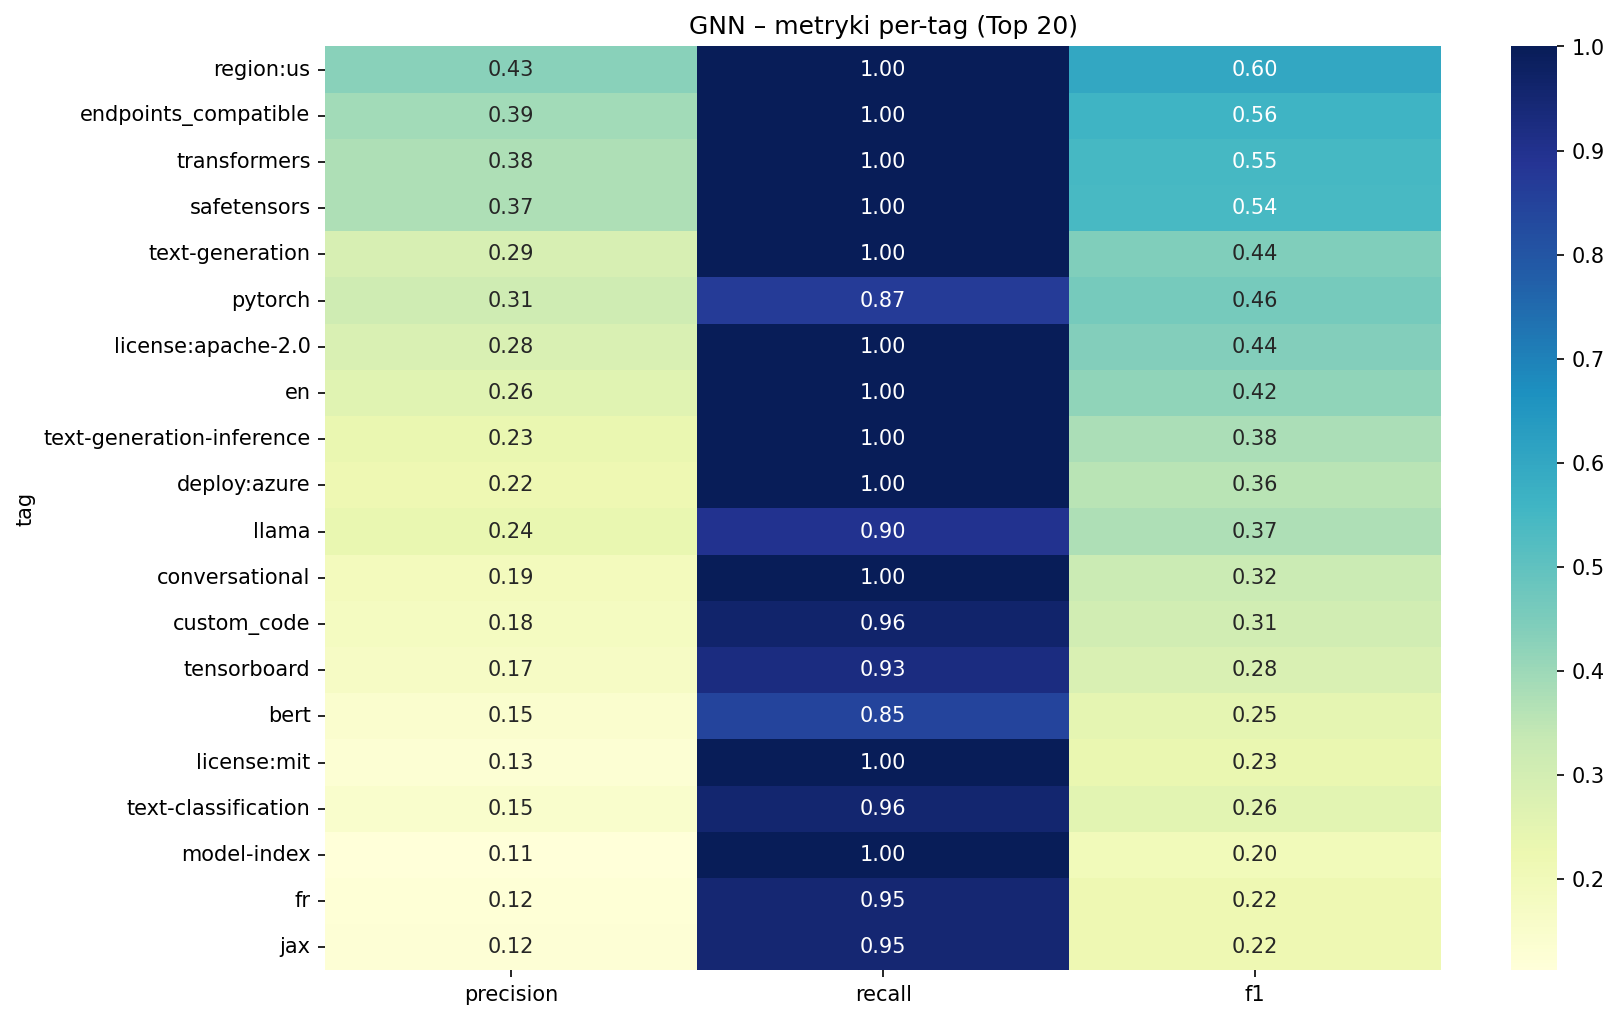
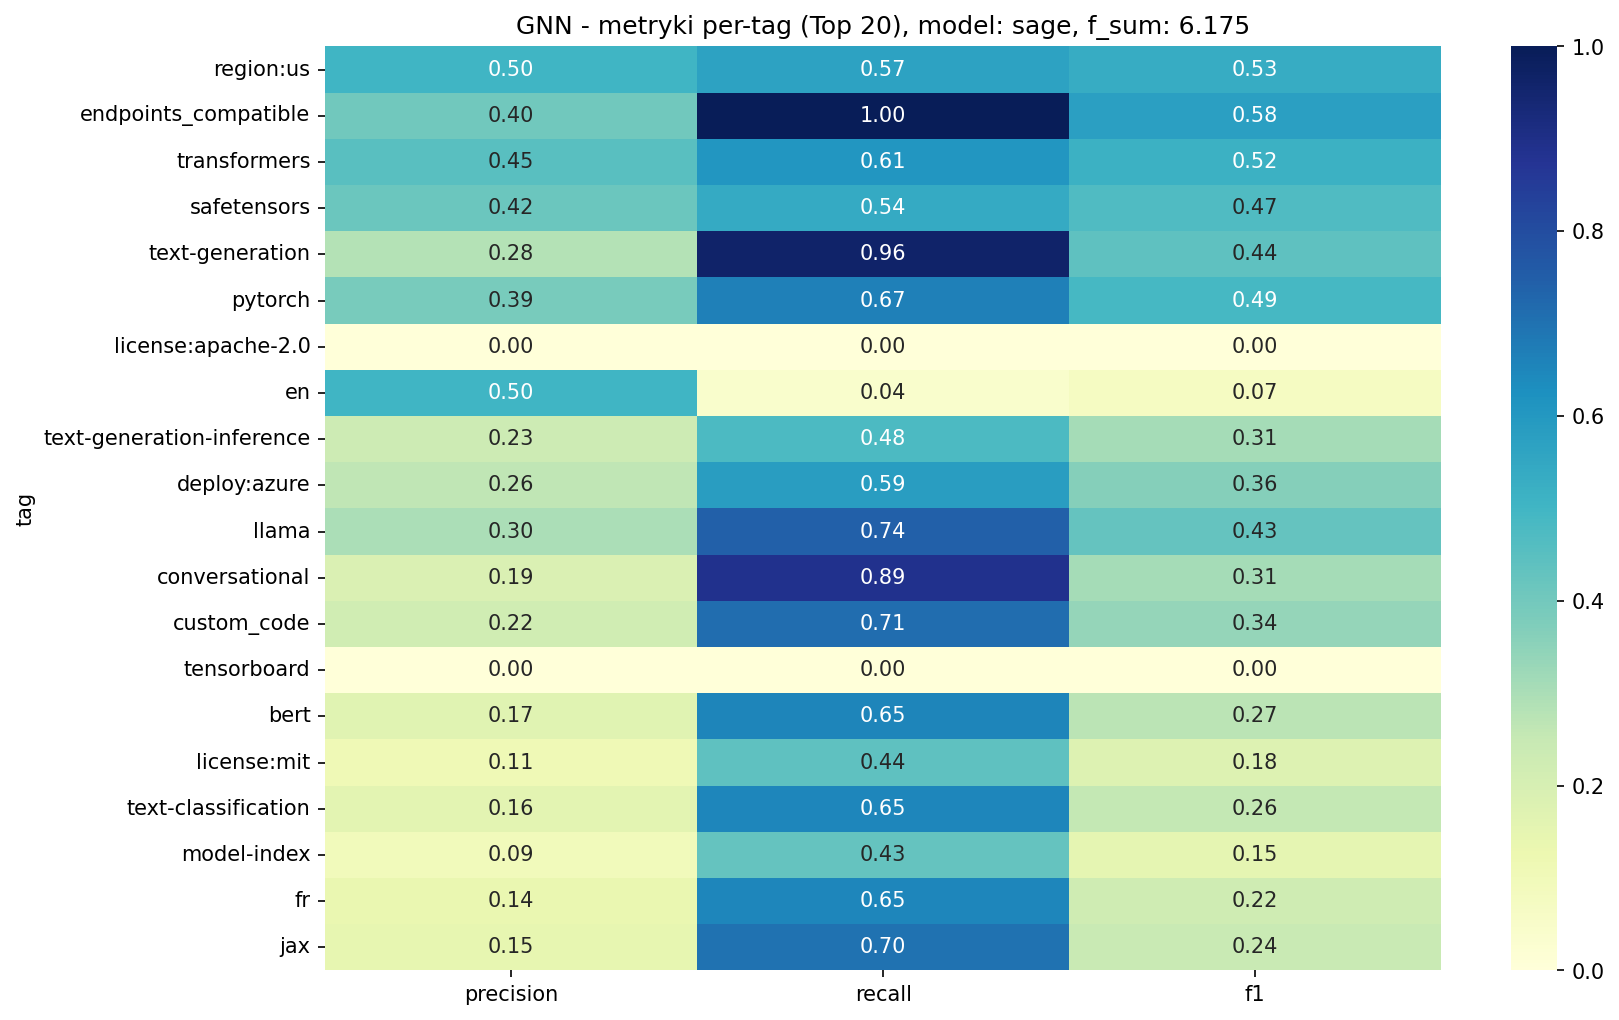
moved config

diff --git a/train_gnn.py b/train_gnn.py
@@ -41,61 +41,18 @@ from sklearn.metrics import f1_score, precision_score, recall_score
 from torch_geometric.nn import SAGEConv, GATConv
 from torch_geometric.utils import add_self_loops
 
-
-# =========================
-# KONFIGURACJA
-# =========================
-@dataclass
-class CFG:
-    gnn_dir: str = "hf_gnn_data"
-    pyg_path: str = "hf_gnn_data/pyg_data.pt"
-
-    out_dir: str = "gnn_model"
-
-    # Jeśli chcesz identyczny split jak SVM:
-    # split_json: Optional[str] = "svm_model/split.json"  # ustaw None jeśli chcesz losowy split
-    split_json: Optional[str] = None
-    # Jeśli SVM filtrował rzadkie klasy:
-    label_mask_npy: Optional[str] = (
-        "svm_model/label_mask.npy"  # ustaw None, jeśli nie było filtracji
-    )
-
-    # Model: "sage" albo "gat"
-    model_type: str = "gat"
-
-    hidden: int = 800
-    num_layers: int = 2
-    dropout: float = 0.2
-
-    lr: float = 1e-3
-    weight_decay: float = 1e-4
-    epochs: int = 800
-    patience: int = 30  # early stopping na val micro-F1
-
-    # próg do multi-label
-    threshold: float = 0.3
-
-    # split losowy jeśli split_json=None
-    test_size: float = 0.2
-    val_size: float = 0.1
-    seed: int = 42
-
-    # optuna
-    use_optuna: bool = True
-    optuna_trials: int = 4000
-    out_root: str = "gnn_runs/"
+from gnn_configuration import (
+    CFG,
+    TAG_VOCAB_JSON,
+    RUN_ID,
+    OPTUNA_DIR,
+    CHECKPOINT_LOAD_DIR,
+)
 
 
 CFG = CFG()
 
 
-def run_id() -> str:
-    return datetime.now().strftime("%Y-%m-%d_%H-%M-%S")
-
-
-RUN_ID = run_id()
-TAG_VOCAB_JSON = "svm_from_gnn/tag_vocab.json"  # zmień ścieżkę jeśli masz inaczej
-OPTUNA_DIR = f"./gnn_runs/optuna_{RUN_ID}/"
 # =========================
 
 
@@ -414,15 +371,22 @@ def run_gnn_from_checkpoint(model_path: str) -> None:
         df_metrics = pd.DataFrame(per_tag_metrics).set_index("tag")[
             ["precision", "recall", "f1"]
         ]
+        f_sum = df_metrics["f1"].sum()
         plt.figure(figsize=(12, 8))
         sns.heatmap(df_metrics, annot=True, cmap="YlGnBu", fmt=".2f")
-        plt.title("GNN – metryki per-tag (Top 20)")
+        plt.title(
+            f"GNN - metryki per-tag (Top 20), model: {CFG.model_type}, f_sum: {f_sum:.3f}"
+        )
         heatmap_path = os.path.join(CFG.out_dir, "per_tag_metrics_heatmap.png")
         plt.savefig(heatmap_path, dpi=150, bbox_inches="tight")
         if CFG.use_optuna:
-            plt.savefig(OPTUNA_DIR, dpi=150, bbox_inches="tight")
+            plt.savefig(
+                f"{CFG.out_root}/{RUN_ID}/per_tag_metrics_heatmap.png",
+                dpi=150,
+                bbox_inches="tight",
+            )
         plt.close()
-        print(f"[OK] Zapisano heatmapę per-tag: {heatmap_path}")
+        print(f"[OK] Zapisano heatmapę per-tag: {heatmap_path}, f_sum: {f_sum}")
 
     with open(os.path.join(CFG.out_dir, "results.json"), "w", encoding="utf-8") as f:
         json.dump(results, f, ensure_ascii=False, indent=2)
@@ -577,14 +541,14 @@ def optuna_optimize(cfg: CFG) -> None:
 # =========================
 
 
-def main() -> None:
+def main(optuna_dir) -> None:
     if CFG.use_optuna:
         optuna_optimize(CFG)
     else:
-        OPTUNA_DIR = "./gnn_runs/optuna_2026-01-17_23-13-33"
+        optuna_dir = CHECKPOINT_LOAD_DIR
 
-    run_gnn_from_checkpoint(f"{OPTUNA_DIR}/best_model.pt")
+    run_gnn_from_checkpoint(f"{optuna_dir}/best_model.pt")
 
 
 if __name__ == "__main__":
-    main()
+    main(OPTUNA_DIR)

diff --git a/gnn_configuration.py b/gnn_configuration.py
@@ -1,0 +1,57 @@
+from dataclasses import dataclass
+from typing import Optional, Tuple
+from datetime import datetime
+
+
+@dataclass
+class CFG:
+    gnn_dir: str = "hf_gnn_data"
+    pyg_path: str = "hf_gnn_data/pyg_data.pt"
+
+    out_dir: str = "gnn_model"
+
+    # Jeśli chcesz identyczny split jak SVM:
+    # split_json: Optional[str] = "svm_model/split.json"  # ustaw None jeśli chcesz losowy split
+    split_json: Optional[str] = None
+    # Jeśli SVM filtrował rzadkie klasy:
+    label_mask_npy: Optional[str] = (
+        "svm_model/label_mask.npy"  # ustaw None, jeśli nie było filtracji
+    )
+
+    # Model: "sage" albo "gat"
+    model_type: str = "gat"
+
+    hidden: int = 448  # 800
+    num_layers: int = 2
+    dropout: float = 0.28557185904342947  # 0.2
+
+    lr: float = 0.004998578343014432  # 1e-3
+    weight_decay: float = 0.00010434075644093138  # 1e-4
+    epochs: int = 6000
+    patience: int = 30  # early stopping na val micro-F1
+
+    # próg do multi-label
+    threshold: float = 0.4920436087517883  # 0.3
+
+    # if split_json=None
+    test_size: float = 0.2
+    val_size: float = 0.1
+    seed: int = 42
+
+    # optuna
+    use_optuna: bool = True
+    optuna_trials: int = 100
+    out_root: str = "gnn_runs/"
+
+
+def run_id() -> str:
+    return datetime.now().strftime("%Y-%m-%d_%H-%M-%S")
+
+
+RUN_ID = run_id()
+TAG_VOCAB_JSON = "svm_from_gnn/tag_vocab.json"
+OPTUNA_DIR = f"gnn_runs/optuna_{RUN_ID}/"
+
+# if not use optuna:
+# CHECKPOINT_LOAD_DIR = "gnn_runs/optuna_2026-01-18_00-05-44"
+CHECKPOINT_LOAD_DIR = "gnn_runs/optuna_2026-01-18_12-51-32"
